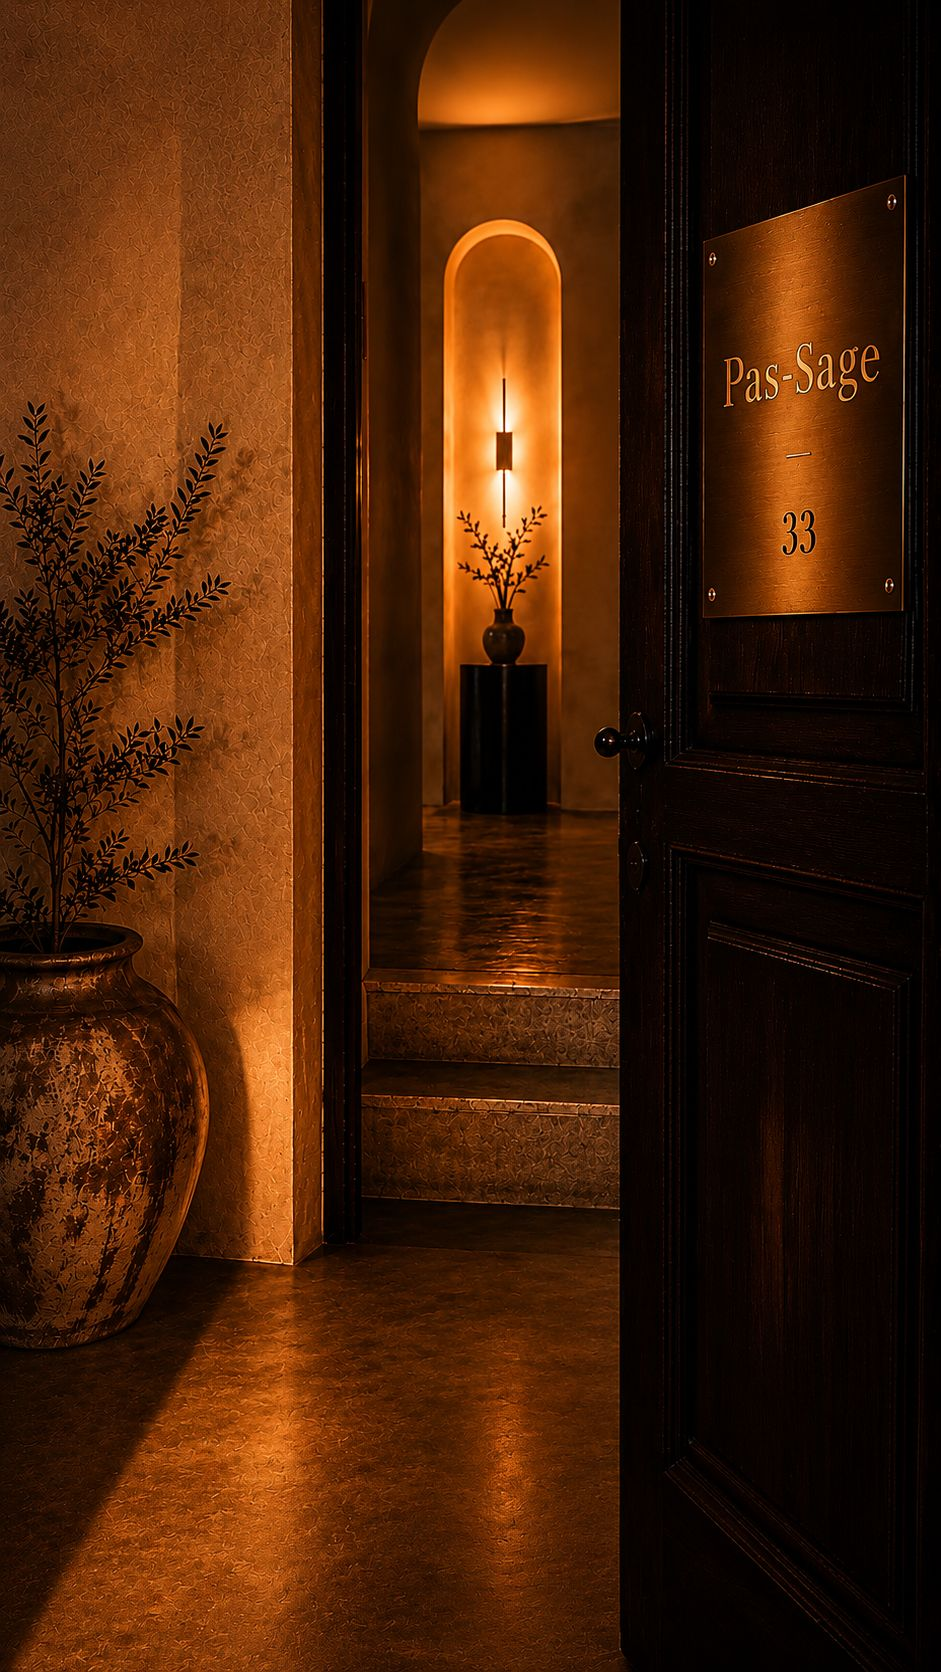
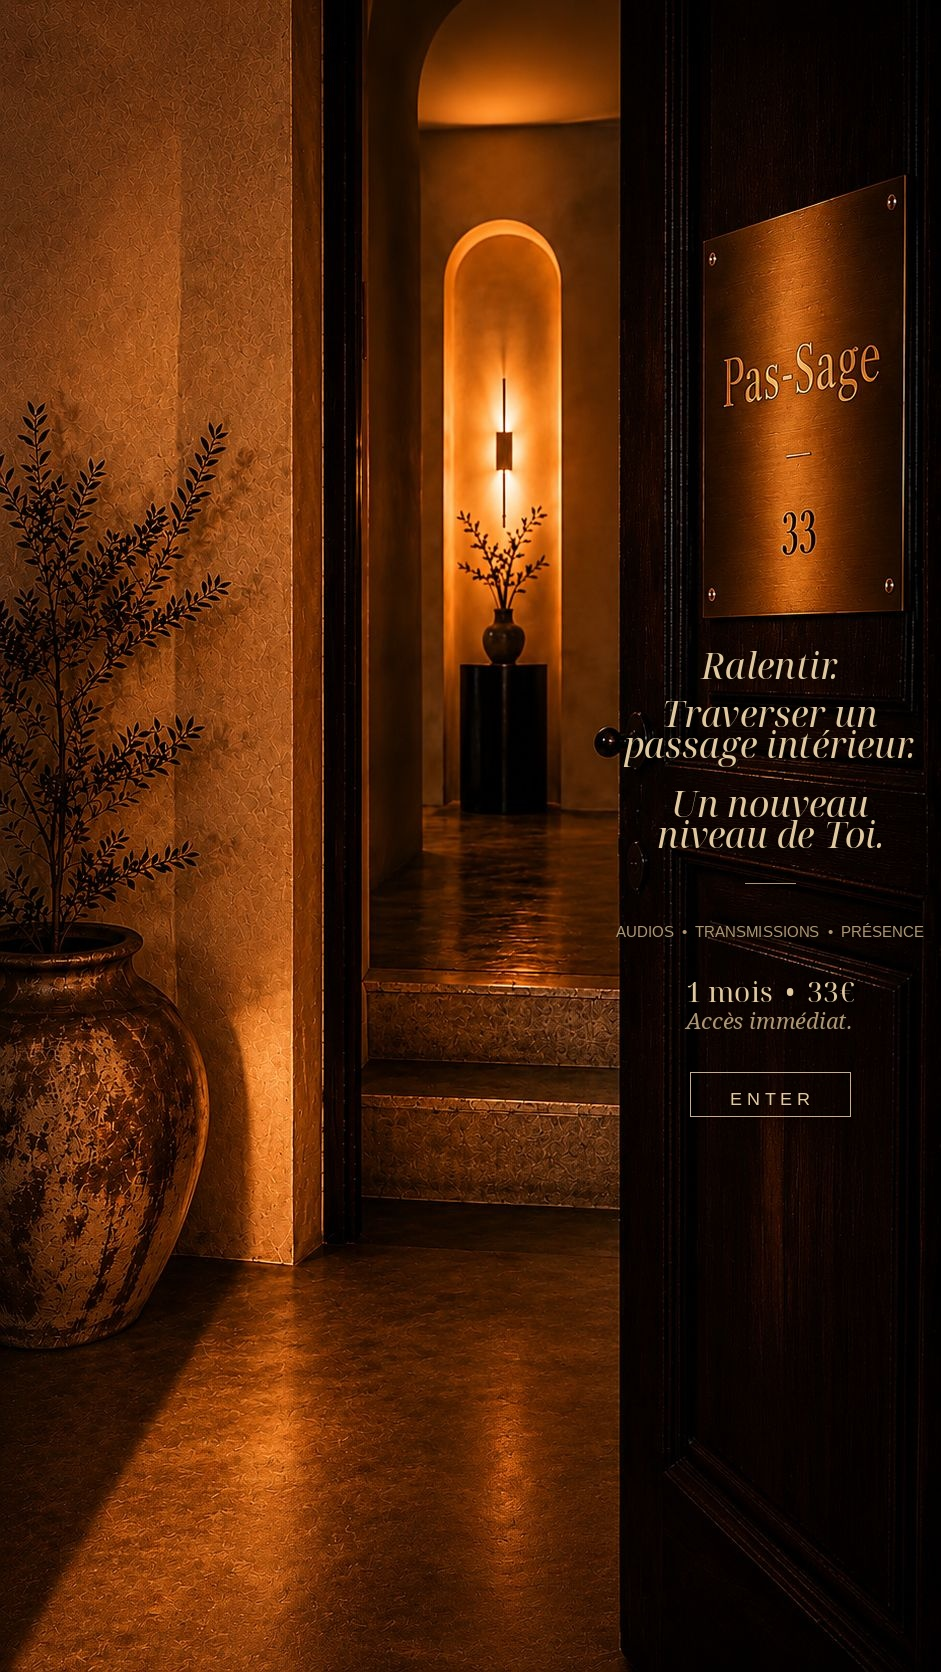
Add files via upload

Changed region(s): [[0.6472, 0.3732, 0.9554, 0.5287], [0.7396, 0.5909, 0.8937, 0.622], [0.8321, 0.6531, 0.8629, 0.6842]]

diff --git a/index.html b/index.html
@@ -7,169 +7,196 @@
 <link rel="icon" type="image/x-icon" href="/favicon.ico">
 <link rel="icon" type="image/png" sizes="32x32" href="/favicon-32.png">
 <link rel="apple-touch-icon" sizes="180x180" href="/apple-touch-icon.png">
-<link href="https://fonts.googleapis.com/css2?family=Cormorant+Garamond:ital,wght@0,300;0,400;0,500;0,600;1,300;1,400;1,500&family=Questrial&family=Bodoni+Moda:ital,opsz,wght@0,6..96,400;0,6..96,500;0,6..96,700;1,6..96,400&display=swap" rel="stylesheet">
 <style>
 *, *::before, *::after { margin: 0; padding: 0; box-sizing: border-box; }
-
+html, body { height: 100%; overflow: hidden; }
 body {
-  font-family: 'Questrial', sans-serif;
   background: #0a0808;
-  color: #f5f0e8;
-  overflow-x: hidden;
   -webkit-font-smoothing: antialiased;
 }
 
-.hero {
+.scene {
   position: relative;
-  min-height: 100vh;
-  display: flex;
+  width: 100%;
+  height: 100vh;
   overflow: hidden;
 }
 
-.hero-bg {
-  position: absolute;
-  inset: 0;
-  z-index: 0;
-}
-.hero-bg img {
+.scene-img {
   width: 100%;
   height: 100%;
   object-fit: cover;
-  object-position: 30% center;
+  object-position: top right;
+  transition: transform 2.5s cubic-bezier(0.22, 1, 0.36, 1), filter 2s ease;
+  transform-origin: 40% 45%;
 }
-/* Minimal overlay — the door is already dark */
-.hero-bg::after {
-  content: '';
+
+/* Golden light that floods from the doorway */
+.light-flood {
   position: absolute;
-  inset: 0;
-  background:
-    linear-gradient(to top, rgba(8,6,5,0.25) 0%, transparent 15%),
-    linear-gradient(to bottom, rgba(8,6,5,0.15) 0%, transparent 8%);
+  top: 0; left: 0;
+  width: 100%;
+  height: 100%;
+  pointer-events: none;
+  opacity: 0;
+  background: radial-gradient(ellipse 40% 60% at 38% 42%, rgba(218,185,120,0.9) 0%, rgba(201,169,110,0.4) 30%, transparent 65%);
+  transition: opacity 2s ease;
 }
 
-/* Text pinned to right side, below the plaque */
-.hero-content {
+/* White/gold screen wash */
+.screen-wash {
   position: absolute;
-  z-index: 1;
-  right: 3vw;
-  top: 55%;
-  text-align: center;
-  width: 220px;
+  top: 0; left: 0;
+  width: 100%;
+  height: 100%;
+  pointer-events: none;
+  opacity: 0;
+  background: radial-gradient(ellipse at 38% 42%, #f5e6c8 0%, #e8d5b0 40%, #c9a96e 100%);
+  transition: opacity 1.8s ease 0.8s;
 }
 
-@keyframes fadeUp {
-  from { opacity: 0; transform: translateY(16px); }
-  to { opacity: 1; transform: translateY(0); }
+/* Particles canvas */
+#particles {
+  position: absolute;
+  top: 0; left: 0;
+  width: 100%;
+  height: 100%;
+  pointer-events: none;
+  opacity: 0;
+  transition: opacity 0.5s ease;
 }
 
-.hero-verse {
-  font-family: 'Cormorant Garamond', serif;
-  font-weight: 300;
-  font-style: italic;
-  font-size: 0.9rem;
-  line-height: 2.2;
-  color: rgba(232,213,176,0.8);
-  margin-bottom: 24px;
-  animation: fadeUp 1s 0.5s both;
-}
-
-.hero-details {
-  font-family: 'Questrial', sans-serif;
-  font-size: 0.45rem;
-  letter-spacing: 0.25em;
-  text-transform: uppercase;
-  color: rgba(201,169,110,0.5);
-  line-height: 2;
-  margin-bottom: 20px;
-  animation: fadeUp 1s 0.7s both;
-}
-
-.hero-price {
-  font-family: 'Questrial', sans-serif;
-  font-size: 0.45rem;
-  letter-spacing: 0.25em;
-  text-transform: uppercase;
-  color: rgba(201,169,110,0.5);
-  margin-bottom: 3px;
-  animation: fadeUp 1s 0.8s both;
-}
-
-.hero-access {
-  font-family: 'Cormorant Garamond', serif;
-  font-weight: 300;
-  font-style: italic;
-  font-size: 0.75rem;
-  color: rgba(232,213,176,0.4);
-  margin-bottom: 30px;
-  animation: fadeUp 1s 0.9s both;
-}
-
-.hero-cta {
-  display: inline-block;
-  font-family: 'Questrial', sans-serif;
-  font-size: 0.5rem;
-  letter-spacing: 0.4em;
-  text-transform: uppercase;
-  color: #e8d5b0;
-  border: 1px solid rgba(201,169,110,0.3);
-  padding: 10px 30px;
-  text-decoration: none;
-  transition: all 0.4s;
+/* Clickable ENTER zone */
+.enter-link {
+  position: absolute;
+  right: 10%;
+  top: 61%;
+  width: 160px;
+  height: 55px;
   cursor: pointer;
-  animation: fadeUp 1s 1.1s both;
+  z-index: 10;
+  border: none;
   background: transparent;
 }
-.hero-cta:hover {
-  background: rgba(201,169,110,0.1);
-  border-color: rgba(201,169,110,0.55);
+.enter-link:hover {
+  background: rgba(201,169,110,0.06);
 }
 
-/* ─── RESPONSIVE ─── */
+/* Opening state */
+.scene.opening .scene-img {
+  transform: scale(1.6);
+  filter: brightness(1.8) saturate(0.5);
+}
+.scene.opening .light-flood {
+  opacity: 1;
+}
+.scene.opening .screen-wash {
+  opacity: 1;
+}
+.scene.opening #particles {
+  opacity: 1;
+}
+.scene.opening .enter-link {
+  pointer-events: none;
+}
+
 @media (max-width: 768px) {
-  .hero-bg img {
-    object-position: 42% center;
+  .scene-img {
+    object-position: 65% top;
+    transform-origin: 50% 40%;
   }
-  .hero-bg::after {
-    background:
-      linear-gradient(to top, rgba(8,6,5,0.9) 0%, rgba(8,6,5,0.5) 35%, transparent 55%),
-      linear-gradient(to bottom, rgba(8,6,5,0.15) 0%, transparent 10%);
+  .light-flood {
+    background: radial-gradient(ellipse 50% 50% at 45% 40%, rgba(218,185,120,0.9) 0%, rgba(201,169,110,0.4) 30%, transparent 60%);
   }
-  .hero-content {
-    position: relative;
-    right: auto;
-    top: auto;
-    width: 100%;
-    max-width: 300px;
-    margin: auto auto 50px;
-    align-self: flex-end;
+  .screen-wash {
+    background: radial-gradient(ellipse at 45% 40%, #f5e6c8 0%, #e8d5b0 40%, #c9a96e 100%);
+  }
+  .enter-link {
+    right: 8%;
+    top: 59%;
+    width: 120px;
+    height: 45px;
   }
 }
 </style>
 </head>
 <body>
 
-<section class="hero">
-  <div class="hero-bg">
-    <img src="passage-bg.jpg" alt="Passage">
-  </div>
+<div class="scene" id="scene">
+  <img class="scene-img" src="passage-bg.jpg" alt="PAS-SAGE 33">
+  <div class="light-flood"></div>
+  <canvas id="particles"></canvas>
+  <div class="screen-wash"></div>
+  <button class="enter-link" id="enterBtn" aria-label="Enter"></button>
+</div>
 
-  <div class="hero-content">
-    <p class="hero-verse">
-      Ralentir.<br>
-      Traverser un passage intérieur.<br>
-      Un nouveau niveau de Toi.
-    </p>
+<script>
+// Particle system — golden dust floating from the doorway
+const canvas = document.getElementById('particles');
+const ctx = canvas.getContext('2d');
+let particles = [];
+let animating = false;
 
-    <p class="hero-details">
-      Audios · transmissions · présence
-    </p>
+function resize() {
+  canvas.width = window.innerWidth;
+  canvas.height = window.innerHeight;
+}
+resize();
+window.addEventListener('resize', resize);
 
-    <p class="hero-price">1 mois · 33€</p>
-    <p class="hero-access">Accès immédiat.</p>
+function createParticle() {
+  // Origin: the doorway area
+  const originX = canvas.width * 0.38 + (Math.random() - 0.5) * canvas.width * 0.15;
+  const originY = canvas.height * 0.42 + (Math.random() - 0.5) * canvas.height * 0.25;
+  return {
+    x: originX,
+    y: originY,
+    vx: (Math.random() - 0.5) * 2.5,
+    vy: (Math.random() - 0.5) * 2 - 0.8,
+    size: Math.random() * 3 + 1,
+    alpha: Math.random() * 0.7 + 0.3,
+    decay: Math.random() * 0.008 + 0.003,
+    color: Math.random() > 0.5 ? '218,185,120' : '201,169,110'
+  };
+}
 
-    <a class="hero-cta" href="https://buy.stripe.com/cNieV6f5TfH87RwbOYbZe05" target="_blank">ENTER</a>
-  </div>
-</section>
+function animateParticles() {
+  if (!animating) return;
+  ctx.clearRect(0, 0, canvas.width, canvas.height);
+  
+  // Add new particles
+  for (let i = 0; i < 8; i++) {
+    particles.push(createParticle());
+  }
+  
+  particles.forEach((p, i) => {
+    p.x += p.vx;
+    p.y += p.vy;
+    p.alpha -= p.decay;
+    if (p.alpha <= 0) { particles.splice(i, 1); return; }
+    ctx.beginPath();
+    ctx.arc(p.x, p.y, p.size, 0, Math.PI * 2);
+    ctx.fillStyle = `rgba(${p.color},${p.alpha})`;
+    ctx.fill();
+  });
+  
+  requestAnimationFrame(animateParticles);
+}
 
+// ENTER click handler
+document.getElementById('enterBtn').addEventListener('click', function() {
+  const scene = document.getElementById('scene');
+  scene.classList.add('opening');
+  
+  // Start particles
+  animating = true;
+  animateParticles();
+  
+  // Redirect after the animation
+  setTimeout(function() {
+    window.location.href = 'https://buy.stripe.com/cNieV6f5TfH87RwbOYbZe05';
+  }, 2800);
+});
+</script>
 </body>
 </html>
